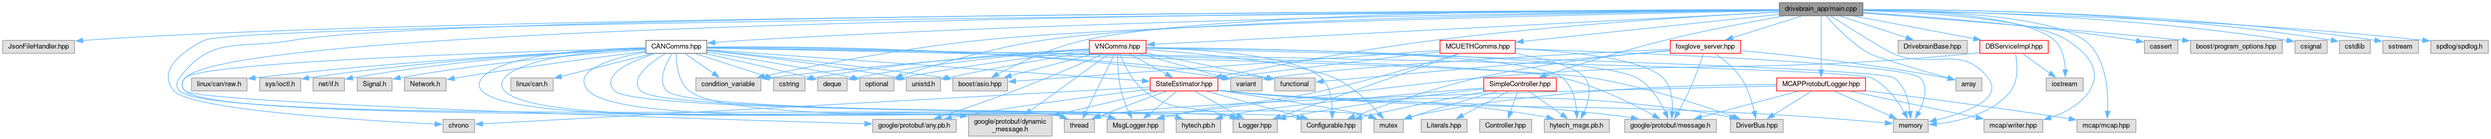
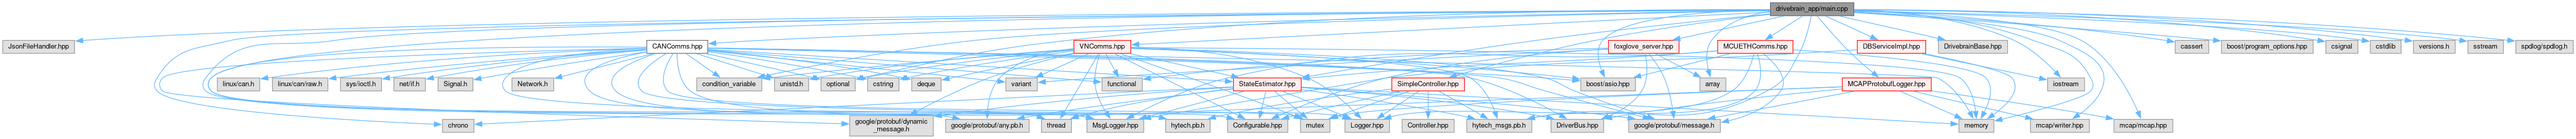
deploy: 4357ed93d77d265236d4dcfd1b00a9cc4b07edf9

Changed region(s): [[0.0311, 0.0, 1.0, 1.0], [0.0622, 0.3247, 0.0933, 0.3838], [0.0, 0.2952, 0.0311, 0.3542]]

diff --git a/CANComms_8hpp_source.html b/CANComms_8hpp_source.html
@@ -201,20 +201,20 @@ $(function() {
 <div class="ttc" id="aclasscomms_1_1CANDriver_html"><div class="ttname"><a href="classcomms_1_1CANDriver.html">comms::CANDriver</a></div><div class="ttdef"><b>Definition:</b> CANComms.hpp:59</div></div>
 <div class="ttc" id="aclasscomms_1_1CANDriver_html_a0ed25074cff759e55eb28338bda21af8"><div class="ttname"><a href="classcomms_1_1CANDriver.html#a0ed25074cff759e55eb28338bda21af8">comms::CANDriver::~CANDriver</a></div><div class="ttdeci">~CANDriver()</div><div class="ttdef"><b>Definition:</b> CANComms.cpp:28</div></div>
 <div class="ttc" id="aclasscomms_1_1CANDriver_html_a0fc111d930fb1283e8df0b22c870324e"><div class="ttname"><a href="classcomms_1_1CANDriver.html#a0fc111d930fb1283e8df0b22c870324e">comms::CANDriver::FieldVariant</a></div><div class="ttdeci">std::variant&lt; int32_t, int64_t, uint32_t, uint64_t, float, double, bool, std::string, std::monostate &gt; FieldVariant</div><div class="ttdef"><b>Definition:</b> CANComms.hpp:61</div></div>
-<div class="ttc" id="aclasscomms_1_1CANDriver_html_a12f97fcea0a8adae3460836a3f673822"><div class="ttname"><a href="classcomms_1_1CANDriver.html#a12f97fcea0a8adae3460836a3f673822">comms::CANDriver::get_field_value</a></div><div class="ttdeci">FieldVariant get_field_value(std::shared_ptr&lt; google::protobuf::Message &gt; message, const std::string &amp;field_name)</div><div class="ttdoc">get the value from a field within a protobuf message based on the name of the field</div><div class="ttdef"><b>Definition:</b> CANComms.cpp:223</div></div>
-<div class="ttc" id="aclasscomms_1_1CANDriver_html_a1c1baff628374bf8df93f0560eb4abf5"><div class="ttname"><a href="classcomms_1_1CANDriver.html#a1c1baff628374bf8df93f0560eb4abf5">comms::CANDriver::set_field_values_of_pb_msg</a></div><div class="ttdeci">void set_field_values_of_pb_msg(const std::unordered_map&lt; std::string, FieldVariant &gt; &amp;field_values, std::shared_ptr&lt; google::protobuf::Message &gt; message)</div><div class="ttdef"><b>Definition:</b> CANComms.cpp:153</div></div>
-<div class="ttc" id="aclasscomms_1_1CANDriver_html_a2621f2c2e5d068ed4b947619f19b40b5"><div class="ttname"><a href="classcomms_1_1CANDriver.html#a2621f2c2e5d068ed4b947619f19b40b5">comms::CANDriver::_do_read</a></div><div class="ttdeci">void _do_read()</div><div class="ttdef"><b>Definition:</b> CANComms.cpp:99</div></div>
-<div class="ttc" id="aclasscomms_1_1CANDriver_html_a2de7b092cd04e19d45b13bf7ea5e2ced"><div class="ttname"><a href="classcomms_1_1CANDriver.html#a2de7b092cd04e19d45b13bf7ea5e2ced">comms::CANDriver::_get_CAN_msg</a></div><div class="ttdeci">std::optional&lt; can_frame &gt; _get_CAN_msg(std::shared_ptr&lt; google::protobuf::Message &gt; msg)</div><div class="ttdef"><b>Definition:</b> CANComms.cpp:269</div></div>
+<div class="ttc" id="aclasscomms_1_1CANDriver_html_a12f97fcea0a8adae3460836a3f673822"><div class="ttname"><a href="classcomms_1_1CANDriver.html#a12f97fcea0a8adae3460836a3f673822">comms::CANDriver::get_field_value</a></div><div class="ttdeci">FieldVariant get_field_value(std::shared_ptr&lt; google::protobuf::Message &gt; message, const std::string &amp;field_name)</div><div class="ttdoc">get the value from a field within a protobuf message based on the name of the field</div><div class="ttdef"><b>Definition:</b> CANComms.cpp:266</div></div>
+<div class="ttc" id="aclasscomms_1_1CANDriver_html_a1c1baff628374bf8df93f0560eb4abf5"><div class="ttname"><a href="classcomms_1_1CANDriver.html#a1c1baff628374bf8df93f0560eb4abf5">comms::CANDriver::set_field_values_of_pb_msg</a></div><div class="ttdeci">void set_field_values_of_pb_msg(const std::unordered_map&lt; std::string, FieldVariant &gt; &amp;field_values, std::shared_ptr&lt; google::protobuf::Message &gt; message)</div><div class="ttdef"><b>Definition:</b> CANComms.cpp:151</div></div>
+<div class="ttc" id="aclasscomms_1_1CANDriver_html_a2621f2c2e5d068ed4b947619f19b40b5"><div class="ttname"><a href="classcomms_1_1CANDriver.html#a2621f2c2e5d068ed4b947619f19b40b5">comms::CANDriver::_do_read</a></div><div class="ttdeci">void _do_read()</div><div class="ttdef"><b>Definition:</b> CANComms.cpp:100</div></div>
+<div class="ttc" id="aclasscomms_1_1CANDriver_html_a2de7b092cd04e19d45b13bf7ea5e2ced"><div class="ttname"><a href="classcomms_1_1CANDriver.html#a2de7b092cd04e19d45b13bf7ea5e2ced">comms::CANDriver::_get_CAN_msg</a></div><div class="ttdeci">std::optional&lt; can_frame &gt; _get_CAN_msg(std::shared_ptr&lt; google::protobuf::Message &gt; msg)</div><div class="ttdef"><b>Definition:</b> CANComms.cpp:312</div></div>
 <div class="ttc" id="aclasscomms_1_1CANDriver_html_a49ccb8a6c4c98e326d5a0dcf170d547e"><div class="ttname"><a href="classcomms_1_1CANDriver.html#a49ccb8a6c4c98e326d5a0dcf170d547e">comms::CANDriver::deqtype</a></div><div class="ttdeci">core::common::ThreadSafeDeque&lt; std::shared_ptr&lt; google::protobuf::Message &gt; &gt; deqtype</div><div class="ttdef"><b>Definition:</b> CANComms.hpp:62</div></div>
 <div class="ttc" id="aclasscomms_1_1CANDriver_html_a56b1e7e4480c2c300ad587f2deb5d505"><div class="ttname"><a href="classcomms_1_1CANDriver.html#a56b1e7e4480c2c300ad587f2deb5d505">comms::CANDriver::init</a></div><div class="ttdeci">bool init()</div><div class="ttdef"><b>Definition:</b> CANComms.cpp:33</div></div>
-<div class="ttc" id="aclasscomms_1_1CANDriver_html_a81eda165cf465a6bcae266f73d81a7fd"><div class="ttname"><a href="classcomms_1_1CANDriver.html#a81eda165cf465a6bcae266f73d81a7fd">comms::CANDriver::pb_msg_recv</a></div><div class="ttdeci">std::shared_ptr&lt; google::protobuf::Message &gt; pb_msg_recv(const can_frame &amp;in_frame)</div><div class="ttdef"><b>Definition:</b> CANComms.cpp:194</div></div>
+<div class="ttc" id="aclasscomms_1_1CANDriver_html_a81eda165cf465a6bcae266f73d81a7fd"><div class="ttname"><a href="classcomms_1_1CANDriver.html#a81eda165cf465a6bcae266f73d81a7fd">comms::CANDriver::pb_msg_recv</a></div><div class="ttdeci">std::shared_ptr&lt; google::protobuf::Message &gt; pb_msg_recv(const can_frame &amp;in_frame)</div><div class="ttdef"><b>Definition:</b> CANComms.cpp:226</div></div>
 <div class="ttc" id="aclasscomms_1_1CANDriver_html_a9c6f642ac1c395ecd88d46e764793cc1"><div class="ttname"><a href="classcomms_1_1CANDriver.html#a9c6f642ac1c395ecd88d46e764793cc1">comms::CANDriver::loggertype</a></div><div class="ttdeci">core::MsgLogger&lt; std::shared_ptr&lt; google::protobuf::Message &gt; &gt; loggertype</div><div class="ttdef"><b>Definition:</b> CANComms.hpp:63</div></div>
-<div class="ttc" id="aclasscomms_1_1CANDriver_html_aa253eba2296cd81a712218a7d8c94447"><div class="ttname"><a href="classcomms_1_1CANDriver.html#aa253eba2296cd81a712218a7d8c94447">comms::CANDriver::_handle_send_msg_from_queue</a></div><div class="ttdeci">void _handle_send_msg_from_queue()</div><div class="ttdef"><b>Definition:</b> CANComms.cpp:316</div></div>
-<div class="ttc" id="aclasscomms_1_1CANDriver_html_aa4fb5036166d9eee83dddc84417d45f5"><div class="ttname"><a href="classcomms_1_1CANDriver.html#aa4fb5036166d9eee83dddc84417d45f5">comms::CANDriver::_handle_recv_CAN_frame</a></div><div class="ttdeci">void _handle_recv_CAN_frame(const struct can_frame &amp;frame)</div><div class="ttdef"><b>Definition:</b> CANComms.cpp:121</div></div>
+<div class="ttc" id="aclasscomms_1_1CANDriver_html_aa253eba2296cd81a712218a7d8c94447"><div class="ttname"><a href="classcomms_1_1CANDriver.html#aa253eba2296cd81a712218a7d8c94447">comms::CANDriver::_handle_send_msg_from_queue</a></div><div class="ttdeci">void _handle_send_msg_from_queue()</div><div class="ttdef"><b>Definition:</b> CANComms.cpp:380</div></div>
+<div class="ttc" id="aclasscomms_1_1CANDriver_html_aa4fb5036166d9eee83dddc84417d45f5"><div class="ttname"><a href="classcomms_1_1CANDriver.html#aa4fb5036166d9eee83dddc84417d45f5">comms::CANDriver::_handle_recv_CAN_frame</a></div><div class="ttdeci">void _handle_recv_CAN_frame(const struct can_frame &amp;frame)</div><div class="ttdef"><b>Definition:</b> CANComms.cpp:122</div></div>
 <div class="ttc" id="aclasscomms_1_1CANDriver_html_ab6f47cb878c51c0ebd1ce96b8d32d31f"><div class="ttname"><a href="classcomms_1_1CANDriver.html#ab6f47cb878c51c0ebd1ce96b8d32d31f">comms::CANDriver::CANDriver</a></div><div class="ttdeci">CANDriver(core::JsonFileHandler &amp;json_file_handler, core::Logger &amp;logger, std::shared_ptr&lt; loggertype &gt; message_logger, deqtype &amp;in_deq, boost::asio::io_context &amp;io_context, std::optional&lt; std::string &gt; dbc_path, bool &amp;construction_failed, core::StateEstimator &amp;state_estimator)</div><div class="ttdoc">constructur</div><div class="ttdef"><b>Definition:</b> CANComms.hpp:69</div></div>
-<div class="ttc" id="aclasscomms_1_1CANDriver_html_ac62dcc95ea0384686433785798c5f8da"><div class="ttname"><a href="classcomms_1_1CANDriver.html#ac62dcc95ea0384686433785798c5f8da">comms::CANDriver::_send_message</a></div><div class="ttdeci">void _send_message(const struct can_frame &amp;frame)</div><div class="ttdef"><b>Definition:</b> CANComms.cpp:111</div></div>
-<div class="ttc" id="aclasscomms_1_1CANDriver_html_add1b6be4b33f622367bb73d7af03857f"><div class="ttname"><a href="classcomms_1_1CANDriver.html#add1b6be4b33f622367bb73d7af03857f">comms::CANDriver::_open_socket</a></div><div class="ttdeci">bool _open_socket(const std::string &amp;interface_name)</div><div class="ttdef"><b>Definition:</b> CANComms.cpp:70</div></div>
-<div class="ttc" id="aclasscomms_1_1CANDriver_html_af671ee9992ebdeb29c756961e4fd7bf1"><div class="ttname"><a href="classcomms_1_1CANDriver.html#af671ee9992ebdeb29c756961e4fd7bf1">comms::CANDriver::_get_pb_msg_by_name</a></div><div class="ttdeci">std::shared_ptr&lt; google::protobuf::Message &gt; _get_pb_msg_by_name(const std::string &amp;name)</div><div class="ttdef"><b>Definition:</b> CANComms.cpp:131</div></div>
+<div class="ttc" id="aclasscomms_1_1CANDriver_html_ac62dcc95ea0384686433785798c5f8da"><div class="ttname"><a href="classcomms_1_1CANDriver.html#ac62dcc95ea0384686433785798c5f8da">comms::CANDriver::_send_message</a></div><div class="ttdeci">void _send_message(const struct can_frame &amp;frame)</div><div class="ttdef"><b>Definition:</b> CANComms.cpp:112</div></div>
+<div class="ttc" id="aclasscomms_1_1CANDriver_html_add1b6be4b33f622367bb73d7af03857f"><div class="ttname"><a href="classcomms_1_1CANDriver.html#add1b6be4b33f622367bb73d7af03857f">comms::CANDriver::_open_socket</a></div><div class="ttdeci">bool _open_socket(const std::string &amp;interface_name)</div><div class="ttdef"><b>Definition:</b> CANComms.cpp:71</div></div>
+<div class="ttc" id="aclasscomms_1_1CANDriver_html_af671ee9992ebdeb29c756961e4fd7bf1"><div class="ttname"><a href="classcomms_1_1CANDriver.html#af671ee9992ebdeb29c756961e4fd7bf1">comms::CANDriver::_get_pb_msg_by_name</a></div><div class="ttdeci">std::shared_ptr&lt; google::protobuf::Message &gt; _get_pb_msg_by_name(const std::string &amp;name)</div><div class="ttdef"><b>Definition:</b> CANComms.cpp:132</div></div>
 <div class="ttc" id="aclasscore_1_1StateEstimator_html"><div class="ttname"><a href="classcore_1_1StateEstimator.html">core::StateEstimator</a></div><div class="ttdef"><b>Definition:</b> StateEstimator.hpp:58</div></div>
 <div class="ttc" id="anamespacecomms_html"><div class="ttname"><a href="namespacecomms.html">comms</a></div><div class="ttdef"><b>Definition:</b> CANComms.hpp:57</div></div>
 </div><!-- fragment --></div><!-- contents -->

diff --git a/main_8cpp.html b/main_8cpp.html
@@ -103,6 +103,8 @@ $(function() {
 <code>#include &lt;mcap/mcap.hpp&gt;</code><br />
 <code>#include &lt;csignal&gt;</code><br />
 <code>#include &lt;cstdlib&gt;</code><br />
+<code>#include &lt;versions.h&gt;</code><br />
+<code>#include &quot;hytech_msgs.pb.h&quot;</code><br />
 <code>#include &lt;iostream&gt;</code><br />
 <code>#include &lt;sstream&gt;</code><br />
 <code>#include &lt;spdlog/spdlog.h&gt;</code><br />
@@ -111,56 +113,56 @@ Include dependency graph for main.cpp:</div>
 <div class="dyncontent">
 <div class="center"><img src="main_8cpp__incl.png" border="0" usemap="#adrivebrain__app_2main_8cpp" alt=""/></div>
 <map name="adrivebrain__app_2main_8cpp" id="adrivebrain__app_2main_8cpp">
-<area shape="rect" title=" " alt="" coords="3467,5,3630,31"/>
+<area shape="rect" title=" " alt="" coords="3449,5,3611,31"/>
 <area shape="rect" title=" " alt="" coords="5,79,145,104"/>
-<area shape="rect" href="CANComms_8hpp.html" title=" " alt="" coords="1259,79,1377,104"/>
-<area shape="rect" title=" " alt="" coords="2157,233,2268,258"/>
-<area shape="rect" href="StateEstimator_8hpp.html" title=" " alt="" coords="2241,152,2373,177"/>
-<area shape="rect" title=" " alt="" coords="2074,233,2133,258"/>
-<area shape="rect" title=" " alt="" coords="863,233,925,258"/>
-<area shape="rect" title=" " alt="" coords="3689,233,3757,258"/>
-<area shape="rect" title=" " alt="" coords="1857,152,1963,177"/>
-<area shape="rect" title=" " alt="" coords="1356,152,1483,177"/>
-<area shape="rect" title=" " alt="" coords="1675,152,1742,177"/>
-<area shape="rect" href="SimpleController_8hpp.html" title=" " alt="" coords="2891,152,3033,177"/>
-<area shape="rect" href="MCUETHComms_8hpp.html" title=" " alt="" coords="2806,79,2953,104"/>
-<area shape="rect" href="VNComms_8hpp.html" title=" " alt="" coords="2123,79,2233,104"/>
-<area shape="rect" href="MCAPProtobufLogger_8hpp.html" title=" " alt="" coords="3462,152,3635,177"/>
-<area shape="rect" title=" " alt="" coords="3866,233,3981,258"/>
-<area shape="rect" title=" " alt="" coords="4047,233,4162,258"/>
-<area shape="rect" title=" " alt="" coords="3699,79,3833,104"/>
-<area shape="rect" href="foxglove__server_8hpp.html" title=" " alt="" coords="3255,79,3392,104"/>
-<area shape="rect" title=" " alt="" coords="3811,152,3862,177"/>
-<area shape="rect" href="DBServiceImpl_8hpp.html" title=" " alt="" coords="3858,79,3991,104"/>
-<area shape="rect" title=" " alt="" coords="3987,152,4059,177"/>
-<area shape="rect" title=" " alt="" coords="4179,79,4244,104"/>
-<area shape="rect" title=" " alt="" coords="4269,79,4447,104"/>
-<area shape="rect" title=" " alt="" coords="4472,79,4535,104"/>
-<area shape="rect" title=" " alt="" coords="4559,79,4619,104"/>
-<area shape="rect" title=" " alt="" coords="4643,79,4713,104"/>
-<area shape="rect" title=" " alt="" coords="4737,79,4849,104"/>
-<area shape="rect" title=" " alt="" coords="2535,233,2653,258"/>
-<area shape="rect" title=" " alt="" coords="3372,233,3475,258"/>
-<area shape="rect" title=" " alt="" coords="2403,233,2489,258"/>
-<area shape="rect" title=" " alt="" coords="2677,233,2735,258"/>
-<area shape="rect" title=" " alt="" coords="1701,233,1863,258"/>
-<area shape="rect" title=" " alt="" coords="3166,233,3345,258"/>
-<area shape="rect" title=" " alt="" coords="1887,225,2050,265"/>
-<area shape="rect" title=" " alt="" coords="2292,233,2379,258"/>
-<area shape="rect" title=" " alt="" coords="995,152,1078,177"/>
-<area shape="rect" title=" " alt="" coords="373,152,481,177"/>
-<area shape="rect" title=" " alt="" coords="506,152,586,177"/>
-<area shape="rect" title=" " alt="" coords="610,152,671,177"/>
-<area shape="rect" title=" " alt="" coords="696,152,764,177"/>
-<area shape="rect" title=" " alt="" coords="788,152,869,177"/>
-<area shape="rect" title=" " alt="" coords="1593,152,1651,177"/>
-<area shape="rect" title=" " alt="" coords="2398,152,2459,177"/>
-<area shape="rect" title=" " alt="" coords="2484,152,2563,177"/>
-<area shape="rect" title=" " alt="" coords="1766,152,1833,177"/>
-<area shape="rect" title=" " alt="" coords="1507,152,1569,177"/>
-<area shape="rect" title=" " alt="" coords="3009,233,3136,258"/>
-<area shape="rect" title=" " alt="" coords="2883,233,2985,258"/>
-<area shape="rect" title=" " alt="" coords="2769,233,2859,258"/>
+<area shape="rect" href="CANComms_8hpp.html" title=" " alt="" coords="1260,79,1379,104"/>
+<area shape="rect" title=" " alt="" coords="2117,233,2228,258"/>
+<area shape="rect" href="StateEstimator_8hpp.html" title=" " alt="" coords="2403,152,2535,177"/>
+<area shape="rect" title=" " alt="" coords="2029,233,2087,258"/>
+<area shape="rect" title=" " alt="" coords="862,233,923,258"/>
+<area shape="rect" title=" " alt="" coords="3816,233,3884,258"/>
+<area shape="rect" title=" " alt="" coords="2857,233,2984,258"/>
+<area shape="rect" title=" " alt="" coords="3079,152,3186,177"/>
+<area shape="rect" title=" " alt="" coords="1357,152,1484,177"/>
+<area shape="rect" title=" " alt="" coords="1599,152,1666,177"/>
+<area shape="rect" href="SimpleController_8hpp.html" title=" " alt="" coords="2711,152,2853,177"/>
+<area shape="rect" href="MCUETHComms_8hpp.html" title=" " alt="" coords="3346,79,3493,104"/>
+<area shape="rect" href="VNComms_8hpp.html" title=" " alt="" coords="2092,79,2203,104"/>
+<area shape="rect" href="MCAPProtobufLogger_8hpp.html" title=" " alt="" coords="3589,152,3762,177"/>
+<area shape="rect" title=" " alt="" coords="3955,233,4070,258"/>
+<area shape="rect" title=" " alt="" coords="4118,233,4233,258"/>
+<area shape="rect" title=" " alt="" coords="3776,79,3911,104"/>
+<area shape="rect" href="foxglove__server_8hpp.html" title=" " alt="" coords="3133,79,3271,104"/>
+<area shape="rect" title=" " alt="" coords="3311,152,3362,177"/>
+<area shape="rect" href="DBServiceImpl_8hpp.html" title=" " alt="" coords="3618,79,3751,104"/>
+<area shape="rect" title=" " alt="" coords="3989,152,4061,177"/>
+<area shape="rect" title=" " alt="" coords="4237,79,4303,104"/>
+<area shape="rect" title=" " alt="" coords="4327,79,4506,104"/>
+<area shape="rect" title=" " alt="" coords="4531,79,4593,104"/>
+<area shape="rect" title=" " alt="" coords="4617,79,4677,104"/>
+<area shape="rect" title=" " alt="" coords="4701,79,4783,104"/>
+<area shape="rect" title=" " alt="" coords="4807,79,4877,104"/>
+<area shape="rect" title=" " alt="" coords="4901,79,5013,104"/>
+<area shape="rect" title=" " alt="" coords="2391,233,2509,258"/>
+<area shape="rect" title=" " alt="" coords="3021,233,3124,258"/>
+<area shape="rect" title=" " alt="" coords="2620,233,2707,258"/>
+<area shape="rect" title=" " alt="" coords="2533,233,2591,258"/>
+<area shape="rect" title=" " alt="" coords="1842,233,2005,258"/>
+<area shape="rect" title=" " alt="" coords="3173,233,3351,258"/>
+<area shape="rect" title=" " alt="" coords="1655,225,1818,265"/>
+<area shape="rect" title=" " alt="" coords="2271,233,2357,258"/>
+<area shape="rect" title=" " alt="" coords="423,152,506,177"/>
+<area shape="rect" title=" " alt="" coords="531,152,639,177"/>
+<area shape="rect" title=" " alt="" coords="663,152,743,177"/>
+<area shape="rect" title=" " alt="" coords="767,152,829,177"/>
+<area shape="rect" title=" " alt="" coords="853,152,921,177"/>
+<area shape="rect" title=" " alt="" coords="997,152,1079,177"/>
+<area shape="rect" title=" " alt="" coords="1776,152,1833,177"/>
+<area shape="rect" title=" " alt="" coords="1959,152,2021,177"/>
+<area shape="rect" title=" " alt="" coords="2147,152,2225,177"/>
+<area shape="rect" title=" " alt="" coords="1509,152,1575,177"/>
+<area shape="rect" title=" " alt="" coords="1690,152,1751,177"/>
+<area shape="rect" title=" " alt="" coords="2731,233,2833,258"/>
 </map>
 </div>
 </div><table class="memberdecls">

diff --git a/MCAPProtobufLogger_8hpp_source.html b/MCAPProtobufLogger_8hpp_source.html
@@ -128,9 +128,9 @@ $(function() {
 <div class="line"><a id="l00052" name="l00052"></a><span class="lineno">   52</span><span class="preprocessor">#endif </span><span class="comment">// __MCAPPROTOBUFLOGGER_H__</span></div>
 <div class="ttc" id="aclasscommon_1_1MCAPProtobufLogger_html"><div class="ttname"><a href="classcommon_1_1MCAPProtobufLogger.html">common::MCAPProtobufLogger</a></div><div class="ttdef"><b>Definition:</b> MCAPProtobufLogger.hpp:18</div></div>
 <div class="ttc" id="aclasscommon_1_1MCAPProtobufLogger_html_a7712eb48ad7d30a9f23e5350ade4f4aa"><div class="ttname"><a href="classcommon_1_1MCAPProtobufLogger.html#a7712eb48ad7d30a9f23e5350ade4f4aa">common::MCAPProtobufLogger::open_new_mcap</a></div><div class="ttdeci">void open_new_mcap(const std::string &amp;name)</div><div class="ttdef"><b>Definition:</b> MCAPProtobufLogger.cpp:45</div></div>
-<div class="ttc" id="aclasscommon_1_1MCAPProtobufLogger_html_a9dc6b74d5fe2de7ee5129a147b1e11c7"><div class="ttname"><a href="classcommon_1_1MCAPProtobufLogger.html#a9dc6b74d5fe2de7ee5129a147b1e11c7">common::MCAPProtobufLogger::log_msg</a></div><div class="ttdeci">void log_msg(std::shared_ptr&lt; google::protobuf::Message &gt; out_msg)</div><div class="ttdef"><b>Definition:</b> MCAPProtobufLogger.cpp:133</div></div>
+<div class="ttc" id="aclasscommon_1_1MCAPProtobufLogger_html_a9dc6b74d5fe2de7ee5129a147b1e11c7"><div class="ttname"><a href="classcommon_1_1MCAPProtobufLogger.html#a9dc6b74d5fe2de7ee5129a147b1e11c7">common::MCAPProtobufLogger::log_msg</a></div><div class="ttdeci">void log_msg(std::shared_ptr&lt; google::protobuf::Message &gt; out_msg)</div><div class="ttdef"><b>Definition:</b> MCAPProtobufLogger.cpp:130</div></div>
 <div class="ttc" id="aclasscommon_1_1MCAPProtobufLogger_html_ac4b25aaff4ef13d20afb7ed02c95fb95"><div class="ttname"><a href="classcommon_1_1MCAPProtobufLogger.html#ac4b25aaff4ef13d20afb7ed02c95fb95">common::MCAPProtobufLogger::~MCAPProtobufLogger</a></div><div class="ttdeci">~MCAPProtobufLogger()</div><div class="ttdef"><b>Definition:</b> MCAPProtobufLogger.cpp:35</div></div>
-<div class="ttc" id="aclasscommon_1_1MCAPProtobufLogger_html_ac9d555e8a17ca299b91b7bc7cd90257a"><div class="ttname"><a href="classcommon_1_1MCAPProtobufLogger.html#ac9d555e8a17ca299b91b7bc7cd90257a">common::MCAPProtobufLogger::close_current_mcap</a></div><div class="ttdeci">void close_current_mcap()</div><div class="ttdef"><b>Definition:</b> MCAPProtobufLogger.cpp:86</div></div>
+<div class="ttc" id="aclasscommon_1_1MCAPProtobufLogger_html_ac9d555e8a17ca299b91b7bc7cd90257a"><div class="ttname"><a href="classcommon_1_1MCAPProtobufLogger.html#ac9d555e8a17ca299b91b7bc7cd90257a">common::MCAPProtobufLogger::close_current_mcap</a></div><div class="ttdeci">void close_current_mcap()</div><div class="ttdef"><b>Definition:</b> MCAPProtobufLogger.cpp:83</div></div>
 <div class="ttc" id="anamespacecommon_html"><div class="ttname"><a href="namespacecommon.html">common</a></div><div class="ttdef"><b>Definition:</b> MCAPProtobufLogger.hpp:16</div></div>
 <div class="ttc" id="astructcommon_1_1MCAPProtobufLogger_1_1ProtobufRawMessage_html"><div class="ttname"><a href="structcommon_1_1MCAPProtobufLogger_1_1ProtobufRawMessage.html">common::MCAPProtobufLogger::ProtobufRawMessage</a></div><div class="ttdef"><b>Definition:</b> MCAPProtobufLogger.hpp:21</div></div>
 <div class="ttc" id="astructcommon_1_1MCAPProtobufLogger_1_1ProtobufRawMessage_html_a31c0619ab027f99b645bfd7b232f0724"><div class="ttname"><a href="structcommon_1_1MCAPProtobufLogger_1_1ProtobufRawMessage.html#a31c0619ab027f99b645bfd7b232f0724">common::MCAPProtobufLogger::ProtobufRawMessage::log_time</a></div><div class="ttdeci">uint64_t log_time</div><div class="ttdef"><b>Definition:</b> MCAPProtobufLogger.hpp:24</div></div>
